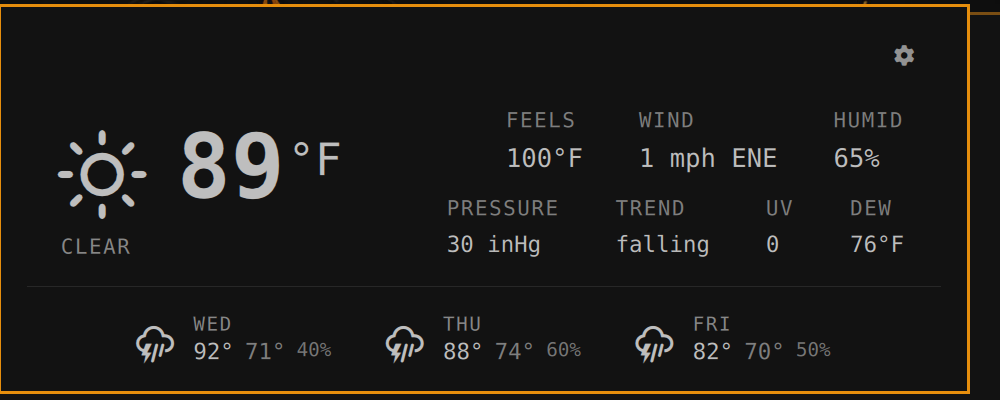
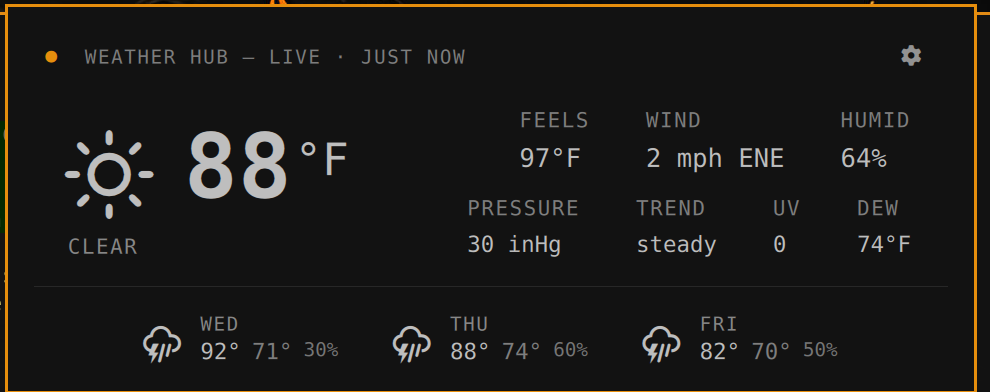
Popup header: "● <STATION> — LIVE · UPDATED Nm ago"
Adds a header line in the popup's gear-row strip that names the station
(from better_forecast location_name) and shows the age of the current
reading, so the popup is never mistaken for a modelled city forecast. The
age advances once a minute while the popup is open. The bar-pill tooltip
now names the station too.

- Model.relativeAge(epochSeconds, nowMs) — "just now" / "Nm ago" / "Nh ago".
- Panel.qml: stationName / readingEpoch / nowMs (60s Timer, runs only while
  open) / readingAge / headerText derived properties; StyledText header with
  an accent status dot, anchored between the popup's left edge and the gear.
- Fixed the hero condition line, which had been repointed at the tooltip
  string; it now shows current.conditions again via a dedicated
  conditionText property.

Claude-Session: https://claude.ai/code/session_01YGwtqj7er61H2QfdAnwE9A

diff --git a/Panel.qml b/Panel.qml
@@ -99,9 +99,37 @@ Panel {
     ? (glyphStr + "  " + tempStr + deg)
     : neutralGlyph
 
-  readonly property string tooltip: current && current.conditions
-    ? String(current.conditions)
+  // Condition word shown under the hero temperature (e.g. "CLEAR").
+  readonly property string conditionText: current && current.conditions ? String(current.conditions) : ""
+
+  // Bar-pill hover tooltip — names the station so it's clear this is local data.
+  readonly property string tooltip: current
+    ? (stationName !== "" ? (stationName + " - your Tempest station") : "Your Tempest station")
     : (root.configured ? "Tempest Weather" : "Tempest Weather - click to set up")
+
+  // ---- "Live from your own station" header ------------------------------
+
+  readonly property string stationName: report && report.location_name
+    ? String(report.location_name).replace(/^\s+|\s+$/g, "") : ""
+  readonly property int readingEpoch: current && current.time ? parseInt(current.time, 10) : 0
+
+  // Re-evaluated every 60s (only while the popup is open) so the "Nm ago"
+  // text advances between the far less frequent weather refreshes.
+  property double nowMs: Date.now()
+  Timer {
+    interval: 60000
+    repeat: true
+    running: root.opened
+    onRunningChanged: if (running) root.nowMs = Date.now()
+    onTriggered: root.nowMs = Date.now()
+  }
+
+  readonly property string readingAge: Model.relativeAge(readingEpoch, nowMs)
+  readonly property string headerText: {
+    if (!current || readingAge === "") return ""
+    var age = "LIVE · " + (readingAge === "just now" ? "JUST NOW" : "UPDATED " + readingAge.toUpperCase())
+    return stationName !== "" ? (stationName.toUpperCase() + " — " + age) : age
+  }
 
   // ---- Lifecycle (mirrors the first-party weather panel) ----------------
 
@@ -339,11 +367,31 @@ Panel {
           spacing: Style.space(14)
 
           // ---- Gear row: reserves its own strip so nothing overlaps it.
+          //      Left side carries the "live from your own station" header.
           Item {
             width: parent.width
             height: Style.space(26)
 
+            Text {
+              id: liveHeader
+              visible: !root.editingSettings && root.headerText !== ""
+              anchors.left: parent.left
+              anchors.leftMargin: Style.space(6)
+              anchors.right: gearBtn.left
+              anchors.rightMargin: Style.space(8)
+              anchors.verticalCenter: parent.verticalCenter
+              textFormat: Text.StyledText
+              text: "<font color='" + Color.accent + "'>" + String.fromCharCode(0x25cf)
+                + "</font>&#160;&#160;" + root.headerText
+              elide: Text.ElideRight
+              color: root.bar ? Qt.darker(root.bar.foreground, 1.5) : "gray"
+              font.family: root.bar ? root.bar.fontFamily : "monospace"
+              font.pixelSize: Style.font.caption
+              font.letterSpacing: 1
+            }
+
             Rectangle {
+              id: gearBtn
               anchors.right: parent.right
               anchors.rightMargin: Style.space(6)
               anchors.verticalCenter: parent.verticalCenter
@@ -435,9 +483,9 @@ Panel {
               }
 
               Text {
-                visible: root.tooltip !== ""
+                visible: root.conditionText !== ""
                 textFormat: Text.PlainText
-                text: root.tooltip.toUpperCase()
+                text: root.conditionText.toUpperCase()
                 color: root.bar ? Qt.darker(root.bar.foreground, 1.4) : "gray"
                 font.family: root.bar ? root.bar.fontFamily : "monospace"
                 font.pixelSize: Style.font.bodySmall

diff --git a/Model.js b/Model.js
@@ -147,6 +147,21 @@ function pressureTrendLabel(trend) {
   return t
 }
 
+// Short "how long ago" label for a reading timestamp. epochSeconds is the
+// Tempest current_conditions.time; nowMs is Date.now(). Empty string for
+// missing or future/implausible input.
+function relativeAge(epochSeconds, nowMs) {
+  var t = parseInt(String(epochSeconds || ""), 10)
+  var now = parseInt(String(nowMs || ""), 10)
+  if (isNaN(t) || t <= 0 || isNaN(now)) return ""
+  var secs = Math.floor(now / 1000) - t
+  if (secs < 0) secs = 0
+  if (secs < 60) return "just now"
+  var mins = Math.floor(secs / 60)
+  if (mins < 90) return mins + "m ago"
+  return Math.round(mins / 60) + "h ago"
+}
+
 // One-line-per-field summary for the right-click desktop notification.
 function summaryLines(report, units) {
   var c = currentConditions(report)
@@ -186,6 +201,7 @@ if (typeof module !== "undefined") {
     currentConditions: currentConditions,
     forecastDays: forecastDays,
     pressureTrendLabel: pressureTrendLabel,
+    relativeAge: relativeAge,
     summaryLines: summaryLines
   }
 }

diff --git a/README.md b/README.md
@@ -11,10 +11,12 @@ modelled forecast for your city.
 > works from your location with no hardware.
 
 The pill shows the current condition glyph and temperature. Clicking it opens a
-popup with feels-like, wind, humidity, sea-level pressure and its trend, UV,
-dew point, and a three-day forecast — all pulled straight from the station
-owner's [Better Forecast API](https://weatherflow.github.io/Tempest/api/), so
-the readings match the Tempest app.
+popup headed `● <STATION NAME> — LIVE · UPDATED <n>m ago`, then feels-like,
+wind, humidity, sea-level pressure and its trend, UV, dew point, and a
+three-day forecast — all pulled straight from the station owner's
+[Better Forecast API](https://weatherflow.github.io/Tempest/api/), so the
+readings match the Tempest app. The header names your station and shows how
+fresh the reading is, so it's never mistaken for a city forecast.
 
 ![Tempest Weather popup](preview.png)
 

diff --git a/CHANGELOG.md b/CHANGELOG.md
@@ -1,5 +1,14 @@
 # Changelog
 
+## 0.4.0
+
+- Popup header: `● <STATION NAME> — LIVE · UPDATED <n>m ago`, built from
+  `location_name` and the reading timestamp. Makes it obvious the numbers are
+  live data from the user's own station, and the age advances once a minute
+  while the popup is open.
+- Bar-pill tooltip now names the station ("<name> - your Tempest station").
+- `Model.relativeAge()` helper for the freshness string.
+
 ## 0.3.0
 
 - Station ID is now optional: with only a token set, the station is looked up
